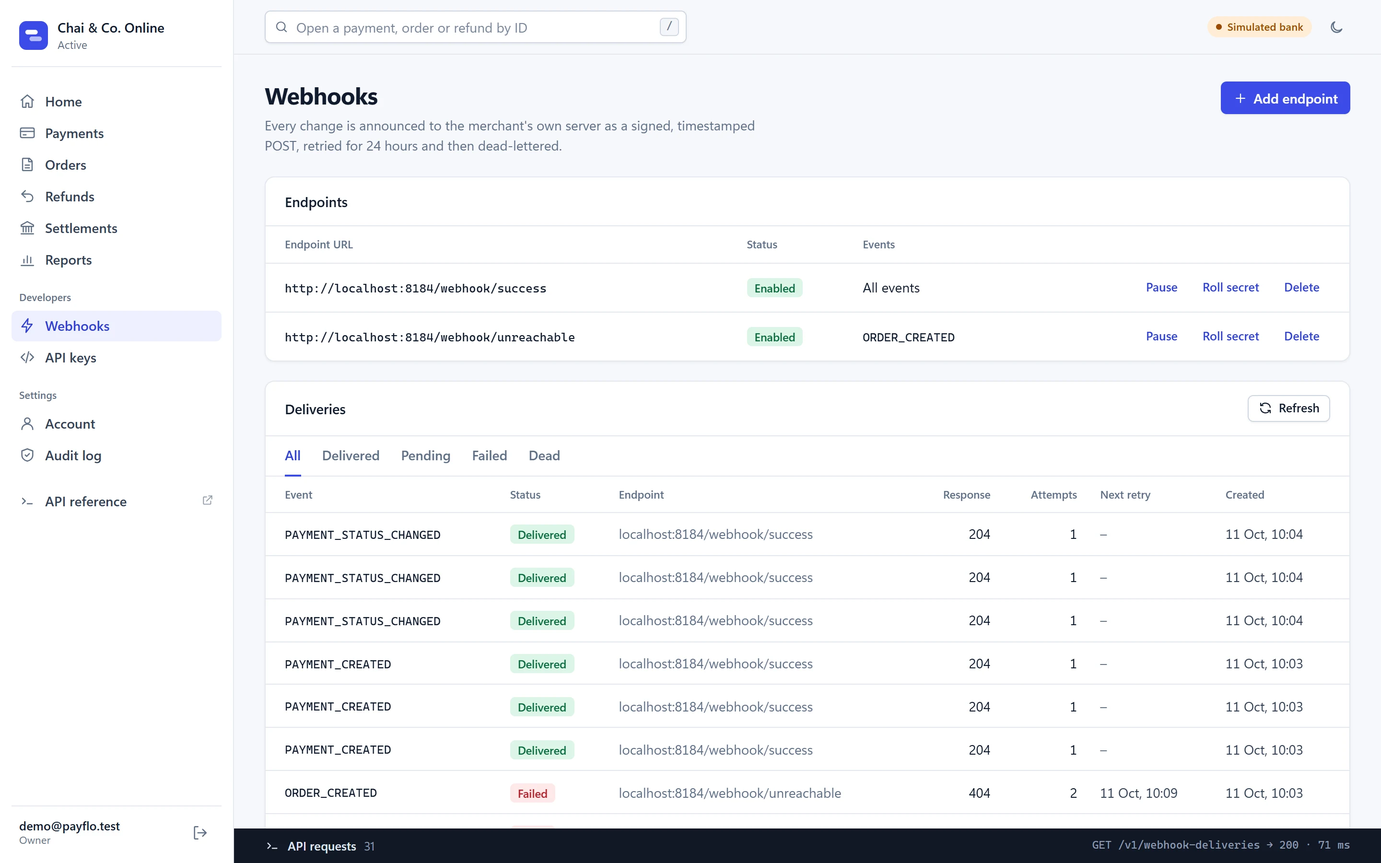
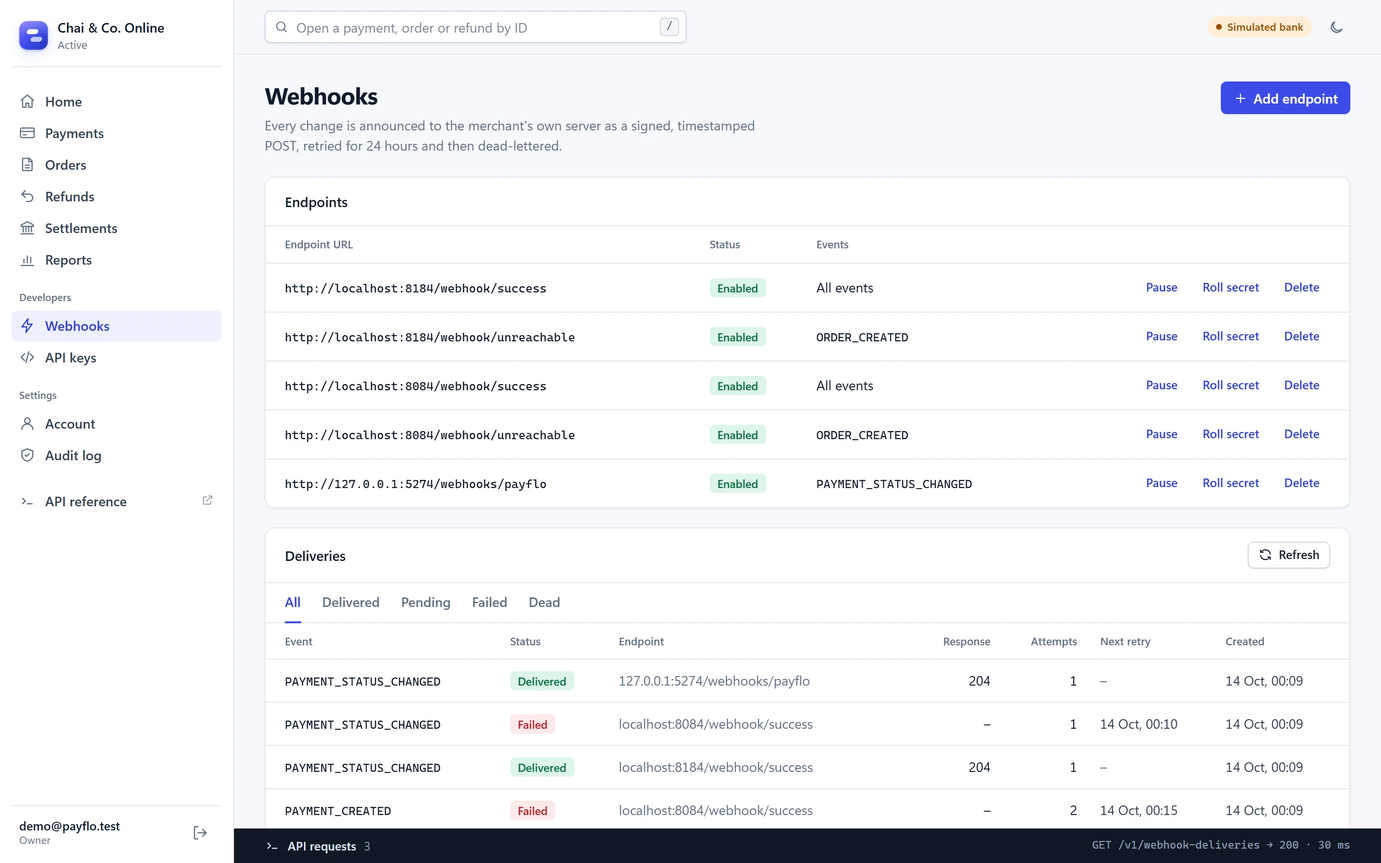
docs: document the shop and how to pay in it, with fresh screenshots of the dashboard and the shop

diff --git a/docs/local-development/demo-and-dashboard.md b/docs/local-development/demo-and-dashboard.md
@@ -1,6 +1,6 @@
-# The Demo and the Dashboard
+# The Demo, the Dashboard and the Shop
 
-The quickest way to see PayFlo working: one command starts everything and fills it with a merchant's day, and a small web dashboard shows the result. Both are for showing and exploring the system; neither is part of it.
+The quickest way to see PayFlo working: one command starts everything and fills it with a merchant's day, a web dashboard shows the result, and a sample shop lets you pay as a customer and watch the payment arrive. All three are for showing and exploring the system; none is part of it.
 
 ## One command
 
@@ -17,16 +17,17 @@ It needs Python 3.10+ and nothing else (standard library only). Every step is sk
 3. Starts discovery, config, the four business services and the gateway, in that order, waiting for each. Their logs go to `demo/logs/`.
 4. Starts the dashboard on <http://localhost:5173>.
 5. Seeds the demo merchant, through the gateway, the way a merchant's own code would.
+6. Starts the demo merchant's shop on <http://localhost:5174>.
 
-When it finishes it prints the dashboard's address, the demo merchant's login and where the API key is.
+When it finishes it prints the dashboard's and the shop's addresses, the demo merchant's login and where the API key is.
 
 | Command | Does |
 |---|---|
-| `python demo/demo.py` | Start what isn't running, seed, serve the dashboard |
+| `python demo/demo.py` | Start what isn't running, seed, serve the dashboard and the shop |
 | `python demo/demo.py seed` | Add another batch of orders and payments to the running stack |
 | `python demo/demo.py status` | What is up |
-| `python demo/demo.py stop` | Stop the services and the dashboard **this script started** (the containers are left running) |
-| `python demo/demo.py --no-seed` | Start everything, create no data |
+| `python demo/demo.py stop` | Stop the services, the dashboard and the shop **this script started** (the containers are left running) |
+| `python demo/demo.py --no-seed` | Start everything, create no data (the shop starts only if an earlier seed left the API key) |
 | `python demo/demo.py --build` | Rebuild the jars first |
 | `python demo/demo.py --port-offset 100` | Move every port by 100, for a machine where the usual ones are taken |
 
@@ -37,6 +38,7 @@ When it finishes it prints the dashboard's address, the demo merchant's login an
 | Signup, profile, payout account, KYC | A merchant going from `PENDING_KYC` to `ACTIVE` |
 | An API key | Saved in `demo/.run/api-key.json` (gitignored), since the secret is shown only once |
 | Two webhook endpoints | One that works (operations-service's test receiver) and one that fails, so retries and `FAILED` deliveries are visible |
+| The shop's webhook endpoint | `PAYMENT_STATUS_CHANGED` to the shop's server, with the signing secret saved in `demo/.run/storefront.json` (gitignored) for it to check deliveries against |
 | A `TEAM` user | A read-only login |
 | Payments by UPI, card, net banking and wallet | The simulated bank authorizing and capturing within seconds, and declining some on its own |
 | `fail@okaxis`, a declined card then UPI on the same order | The [test values](../api/mock-acquirer.md), and two attempts on one order |
@@ -54,7 +56,7 @@ The outcome of an ordinary payment is the simulated bank's to decide (it decline
 The script refuses to start a service on a port another program holds, and says which. It does not take "something answered on 8761" as proof that PayFlo's discovery-service is running: any Eureka answers there, and registering with another project's registry would quietly break both. Either stop the other program or move PayFlo:
 
 ```bash
-python demo/demo.py --port-offset 100     # gateway :8180, services :8181-8184, discovery :8861, config :8988, dashboard :5273
+python demo/demo.py --port-offset 100     # gateway :8180, services :8181-8184, discovery :8861, config :8988, dashboard :5273, shop :5274
 ```
 
 The offset is remembered (in `demo/.run/settings.json`), so `seed`, `status` and `stop` find the same stack; `--port-offset 0` goes back. The services find discovery and config on their moved ports through `EUREKA_URL` and `CONFIG_SERVER_URL`.
@@ -92,12 +94,14 @@ The frame is exactly the height of the window and never scrolls: the sidebar and
 
 Log in as the demo merchant, as its `TEAM` user to see a read-only login refused by the gateway (`403 ROLE_FORBIDDEN`), or create a new account from the login page.
 
+**Home, Payments and Orders are live.** Each asks the API again every few seconds while it is on screen (marked **Live** beside its Refresh button), and a row that is new, or whose status has changed, is tinted for a moment. Nothing is pushed: it is the same `GET` a refresh makes, so the gateway needed no change. These repeats are left out of the API requests bar, which would otherwise show nothing else.
+
 ### How it is put together
 
 | File | Holds |
 |---|---|
 | `site/app.css` | Every style. Colours are tokens (`--brand`, `--text`, `--good-bg`, ...), defined once for light and again under `[data-theme="dark"]`; a component never names a colour itself |
-| `site/js/ui.js` | The shared pieces: tables and paged lists, badges, forms, dialogs and drawers, toasts, the trend chart |
+| `site/js/ui.js` | The shared pieces: tables and paged lists (and their live reload), badges, forms, dialogs and drawers, toasts, the trend chart |
 | `site/js/icons.js` | The icons and the logo, as inline SVG |
 | `site/js/api.js` | The only code that calls the backend: sessions, token refresh, the request log |
 | `site/js/app.js` | Login, the shell (sidebar, top bar, routing), the API requests bar |
@@ -114,6 +118,69 @@ A browser may only call the origin a page came from, so `serve.py` answers the p
 - It listens on `127.0.0.1` only, like every other PayFlo process, and forwards a fixed list of headers (`Authorization`, `Content-Type`, `Accept`, `X-Idempotency-Key`, `X-Admin-Key`). Identity headers are not in the list, and the gateway drops them anyway.
 - It never forwards `/internal/**`, stores nothing, and logs one line per API call: the method, path and status, never a header or a body.
 - The page keeps the session (the JWT and refresh token, or the admin key) in `sessionStorage`, so closing the tab ends it. The only thing it remembers longer is the theme (light by default, dark from the button in the top bar), in `localStorage`. Its own `Content-Security-Policy` allows scripts and styles from itself only.
+
+## The shop
+
+`microservices/storefront/` is the other side of PayFlo: a merchant's website, where a customer pays. It is the demo merchant's tea shop, "Chai & Co.", and it integrates the way a real merchant does: its own server holds the API key and calls PayFlo, and its checkout embeds PayFlo's payment form. `demo.py` starts it on <http://localhost:5174> (5274 with `--port-offset 100`) once the seed has created the merchant's API key. To run it on its own against a gateway that is already up:
+
+```bash
+python storefront/serve.py                      # http://localhost:5174 -> the gateway on :8080
+python storefront/serve.py --port 5274 --gateway http://localhost:8180
+```
+
+![The shop's checkout: delivery details and PayFlo's payment form with card, UPI, net banking and wallet tabs](../assets/screenshots/shop-checkout.webp)
+
+### Paying in the shop
+
+1. **Pick something.** Open the shop, add a product to the cart (or open it for its details first) and press **Checkout**. Orders under ₹499 pay ₹49 shipping, and the cart shows how far an order is from free shipping.
+2. **Give the delivery details.** Any email, a 10-digit mobile number starting with 6 to 9, an address, a state and a 6-digit PIN code. The shop's server checks them before a payment can start.
+3. **Pay.** Choose a method in the payment form and enter a value from the table below; a card takes any future expiry and any three-digit CVC. While the bank answers, the form shows the wait in place of its fields.
+4. **Watch it arrive.** The confirmation page opens with the order number and a tracker, and **Payment confirmed** ticks a moment later, when PayFlo's signed webhook reaches the shop's server. With the dashboard's Payments page open beside the shop, the payment appears there on its own and moves from authorizing to captured.
+
+| Method | Enter | What happens |
+|---|---|---|
+| Card | `4111 1111 1111 1111` | Approved and captured within a few seconds |
+| Card | `4000 0000 0000 0002` | Declined: the checkout says so, and the same order can be paid again |
+| Card | `4000 0000 0000 0069` | Declined as an expired card |
+| Card | `4000 0000 0000 0341` | Approved, but the bank refuses the first capture; the shop's server captures it again and the order goes through |
+| UPI | `buyer@okaxis`, or any other `name@bank` | Approved after the "approve in your UPI app" wait |
+| UPI | `fail@okaxis` | Rejected |
+| UPI | `capturefail@okaxis` | Like the card above: the first capture refused, the retry captured |
+| Net banking, wallet | Any bank or wallet in the list | Approved after a few seconds |
+
+Like a real bank, the [simulated one](../api/mock-acquirer.md#2-the-bank-callback--the-asynchronous-answer) also declines a share of ordinary payments at random: about 1 card payment in 10, 1 UPI or wallet payment in 20 and 1 net-banking payment in 5. Such a decline reads "Your bank declined the payment", and paying again works.
+
+| | |
+|---|---|
+| <img src="../assets/screenshots/shop.webp" alt="The shop's home page: a hero, the shop's promises and its products" /> | <img src="../assets/screenshots/shop-cart.webp" alt="The cart drawer with two products and free shipping unlocked" /> |
+| The shop | The cart |
+| <img src="../assets/screenshots/shop-checkout.webp" alt="The checkout with PayFlo's payment form" /> | <img src="../assets/screenshots/shop-confirmation.webp" alt="The order confirmation with Payment confirmed ticked" /> |
+| The checkout and PayFlo's payment form | The confirmation, after the signed webhook |
+
+| Page | What it is |
+|---|---|
+| `/` | The shop: eight teas and teaware with category filters, search, a product view and a cart drawer |
+| `/checkout.html` | The shop's checkout: contact (email, mobile), delivery address, the order summary, and PayFlo's payment form (`js/payflo.js`), embedded the way a payment SDK's element is: tabs for card, UPI, net banking and wallet, card-brand detection, errors beside the field they are about, and the wait for the bank. Coming back to the page while the bank is still answering shows that wait again |
+| `/success.html` | The order confirmation: the order number, a tracker whose **Payment confirmed** step ticks when PayFlo's signed webhook reaches the shop's server, the contact, address and payment method, and the order summary |
+
+### How it is put together
+
+`serve.py` is the merchant's backend, and the only thing that talks to PayFlo. The pages talk to `serve.py`.
+
+| Step | Call to the gateway, with the API key |
+|---|---|
+| The customer gives their details | Nothing yet: `serve.py` checks the email, mobile number, address and PIN code itself and keeps them with the checkout |
+| The customer pays | `POST /v1/orders`, for an amount the server works out from its own price list and shipping rule; the browser sends product ids and quantities, never an amount. The customer's name, email and phone go with it. The checkout's id is the `X-Idempotency-Key`, so pressing Pay twice makes one order |
+| A card | `POST /v1/vault/tokenize`, then the payment carries only the token. The number passes through `serve.py` on its way to the vault and is neither kept nor logged |
+| The payment | `POST /v1/payments`, with a new idempotency key for each attempt; a declined attempt can be followed by another on the same order |
+| Waiting for the bank | `GET /v1/payments/{id}` about once a second, while the page shows the bank's progress |
+| A capture the bank refused | `POST /v1/payments/{id}/capture`, once, before the customer is told anything |
+| Afterwards | PayFlo `POST`s `PAYMENT_STATUS_CHANGED` to the shop's `/webhooks/payflo`. The server checks the timestamp and the HMAC signature against its secret, drops an event id it has already seen, and only then marks the order confirmed (see [webhook configs](../api/webhook-configs.md#what-a-delivery-looks-like)) |
+
+- The API key stays on the server (`demo/.run/api-key.json`, or `PAYFLO_KEY_ID` and `PAYFLO_KEY_SECRET`). The browser holds only its checkout's id, a random token that opens that one checkout.
+- A decline is shown the way a checkout would say it ("Your card was declined") rather than as the API's `errorCode`, and the same order can be paid again by another method.
+- Like the dashboard it listens on `127.0.0.1` only, needs no change to the gateway, and is plain HTML, CSS and JavaScript modules with no build step and no dependencies; its `Content-Security-Policy` allows scripts and styles from itself only, so the product pictures are drawn as inline SVG.
+- Checkouts are kept in memory: restarting `serve.py` forgets the open ones, and the orders and payments stay in PayFlo.
 
 ## API reference in the browser
 

diff --git a/CLAUDE.md b/CLAUDE.md
@@ -55,9 +55,11 @@ microservices/
   k8s-scaled/           overlay on k8s/: 3 replicas of the gateway and payment-service, and more room for PostgreSQL/Redis/Kafka (a sibling, not inside k8s/: Kustomize forbids it)
   observability/        Zipkin/Prometheus/Grafana: docker-compose.yaml locally, kustomization.yaml (included by k8s/)
   load-test/            JMeter plan + provision_keys.py + run_load_test.py (also reports capture and webhook-SLA from Prometheus) + idempotency_replay_test.py; keys*.csv and results/ are gitignored
-  demo/                 demo.py: starts infrastructure and the seven services, seeds a demo merchant, serves the dashboard (logs/, .run/ gitignored)
+  demo/                 demo.py: starts infrastructure and the seven services, seeds a demo merchant, serves the dashboard and the shop (logs/, .run/ gitignored)
   dashboard/            a web dashboard over the PUBLIC API only: site/ (static HTML/CSS/JS modules, no build, no dependencies) and serve.py,
                         a loopback server that forwards /v1/** to the gateway. A client, not part of the system: never give it a path around the gateway
+  storefront/           a sample merchant's shop, also over the PUBLIC API only: site/ (shop, checkout with js/payflo.js, PayFlo's embedded payment form, and confirmation pages; no build) and serve.py,
+                        the merchant's backend: it holds the API key, creates the order and the payment, and verifies PayFlo's signed webhook
   inside each service (com.project.payflo.<module>): entity/ repository/ mapper/ service/ service/impl/
   controller/ dto/ client/ config/   and src/main/resources/db/migration/ (Flyway: V1__baseline.sql, V2__…)
 .github/                CI (build, every test, dependency scan)
@@ -72,7 +74,7 @@ docker compose -f services.docker-compose.yaml up -d            # infrastructure
 cd microservices && ./mvnw clean install -DskipTests            # build every module, install common-lib
 cd microservices && ./mvnw verify                               # EVERY test, as CI runs it: unit + integration on real PostgreSQL/Redis/Kafka
                                                                 # in containers (needs Docker; nothing else running — no config server, no Eureka)
-cd microservices && python demo/demo.py                         # ONE COMMAND: infrastructure, build if needed, 7 services, seed, dashboard on :5173
+cd microservices && python demo/demo.py                         # ONE COMMAND: infrastructure, build if needed, 7 services, seed, dashboard on :5173, shop on :5174
                                                                 # (seed | status | stop | --build | --port-offset 100 when ports are taken)
 python docs/api/check_openapi.py                                # the OpenAPI spec must match the controllers (CI runs it)
 cd microservices && python chaos/crash_and_outage_test.py       # kill/outage tests against the running stack
@@ -96,7 +98,7 @@ On Windows, use `mvnw.cmd`. Start order: discovery → config → the four busin
 - **Nothing is published beyond loopback**: services and infrastructure bind `127.0.0.1` locally (a service trusts `X-Merchant-Id`, so only the gateway may reach it). CI fails on a fixable HIGH/CRITICAL dependency vulnerability: upgrade or pin, don't silence it.
 - **New settings go in `config-repo`**, with a `-k8s.yaml` override and a ConfigMap / `secrets.env.example` entry when they differ in-cluster. A new Feign client needs a `url = "${<X>_SERVICE_URI:}"` override for Kubernetes.
 - **A new, removed or moved endpoint changes `docs/api/openapi.yaml` in the same change** (hand-written; `check_openapi.py` fails CI otherwise), and its page in `docs/api/`. The dashboard and the Postman collection call the same endpoints: update them when a shape they use changes.
-- **The dashboard stays a client of the gateway.** It needs no gateway change: no CORS, no static files on the gateway, no addition to `public-routes`, no loosening of the gateway's CSP. `serve.py` binds loopback only and never forwards `/internal/**`.
+- **The dashboard and the shop stay clients of the gateway.** They need no gateway change: no CORS, no static files on the gateway, no addition to `public-routes`, no loosening of the gateway's CSP. Each `serve.py` binds loopback only; the dashboard's never forwards `/internal/**`, and the shop's keeps the API key on the server, never logs a request body (it can hold a card number) and takes amounts only from its own price list.
 - **On Windows, connect to `127.0.0.1`, not `localhost`, from scripts**: the services listen on IPv4 only and each `localhost` call first waits about two seconds on `::1`.
 - **A sealed type crossing Feign needs `@JsonTypeInfo`.**
 - **Check performance-sensitive changes with the load test**, not just a single request: every bottleneck it has found (gateway proxy pool, Open-Session-In-View, pool sizing, the outbox poller, breaker scope) was invisible one request at a time.

diff --git a/docs/features.md b/docs/features.md
@@ -128,8 +128,9 @@ See [audit log](api/audit-log.md) and [admin API](api/admin.md).
 
 ## Operating it
 
-- **One-command demo.** `python demo/demo.py` starts the infrastructure and the seven services, seeds a merchant through the public API (KYC, an API key, webhooks, payments by every method, the failure cases, a refund, a settlement) and serves the dashboard.
-- **Dashboard.** A web client over the public API: overview and reports, orders with a checkout, payments, refunds, settlements, webhook endpoints and deliveries, API keys, team, the audit log and the operator's console, with a bar listing every API request the page makes.
+- **One-command demo.** `python demo/demo.py` starts the infrastructure and the seven services, seeds a merchant through the public API (KYC, an API key, webhooks, payments by every method, the failure cases, a refund, a settlement) and serves the dashboard and the shop.
+- **Dashboard.** A web client over the public API: overview and reports, orders with a checkout, payments, refunds, settlements, webhook endpoints and deliveries, API keys, team, the audit log and the operator's console, with a bar listing every API request the page makes. Home, Payments and Orders reload themselves every few seconds and tint what is new.
+- **Sample shop.** A merchant's website over the same public API: a tea shop with a cart, a checkout for contact and delivery details with PayFlo's embedded Payment Element (card, UPI, net banking and wallet), and an order confirmation with a tracker. Its server holds the API key, creates the order and the payment with idempotency keys, tokenizes the card, retries a refused capture and verifies the signed webhook before confirming the order.
 - **API reference.** A hand-written OpenAPI 3.0 spec, checked against the controllers in CI, rendered by Swagger UI; and a Postman collection that walks the same API.
 - **Observability.** One trace per request across every service in Zipkin, Prometheus metrics with latency histograms, and a Grafana dashboard for throughput, p99, availability, the outbox, payments and the webhook SLA.
 - **Kubernetes.** Kustomize manifests for a local kind cluster, and an overlay with three replicas of the gateway and payment-service, rolling updates and disruption budgets.

diff --git a/docs/practices/testing.md b/docs/practices/testing.md
@@ -70,6 +70,7 @@ Every change to a flow is verified end to end through the gateway, against the r
 | Area | How to verify |
 |---|---|
 | The whole flow at once | `python demo/demo.py` from `microservices/` ([the demo](../local-development/demo-and-dashboard.md)): on a fresh database it must end with every seeded payment in its expected state, one order for the repeated idempotency key, a `PROCESSED` refund and a settlement whose net is gross − refunds − fee − GST. Then click through the dashboard it prints |
+| The shop | Open the [shop](../local-development/demo-and-dashboard.md#the-shop) and the dashboard's Payments page side by side. Fill in the checkout's details and pay by card `4111 1111 1111 1111` in the payment form: the payment appears in the dashboard on its own and reaches `CAPTURED`, and the confirmation page's tracker ticks "Payment confirmed" when the signed webhook arrives. Pay with the declined card `4000 0000 0000 0002`: the checkout says so and the same order can be paid again. A `POST` to `/webhooks/payflo` with a wrong signature is `401` |
 | Authentication | Signup → login → create an API key → call an API-key endpoint; a wrong secret is `401`; 201 requests in a minute on one key is a `429` |
 | The payment path | Create an order with a `customer`, tokenize a card, pay by card and by UPI; each reaches `CAPTURED` within seconds and the order `PAID`. A [test failure value](../api/mock-acquirer.md) comes back `FAILED` |
 | Idempotency | `python idempotency_replay_test.py` in `microservices/load-test/` — every key must resolve to one order or payment ([replay test](../load-testing/running.md#6-replay-test-for-idempotency)) |

diff --git a/docs/local-development/README.md b/docs/local-development/README.md
@@ -4,7 +4,7 @@ Everything needed to run PayFlo on your own machine.
 
 Local development runs **seven processes** — discovery, config, the four business services and the gateway — from the `microservices/` build. PostgreSQL, Redis and Kafka run in Docker.
 
-**In a hurry?** `python demo/demo.py` from `microservices/` does all of the steps below, seeds a demo merchant and opens a dashboard: see [the demo and the dashboard](demo-and-dashboard.md).
+**In a hurry?** `python demo/demo.py` from `microservices/` does all of the steps below, seeds a demo merchant and opens a dashboard and a sample shop: see [the demo, the dashboard and the shop](demo-and-dashboard.md).
 
 | Step | Page |
 |---|---|
@@ -16,7 +16,7 @@ Local development runs **seven processes** — discovery, config, the four busin
 
 | Page | Covers |
 |---|---|
-| [The demo and the dashboard](demo-and-dashboard.md) | One command to start and seed everything, the web dashboard, Swagger UI |
+| [The demo, the dashboard and the shop](demo-and-dashboard.md) | One command to start and seed everything, the web dashboard, the sample shop, Swagger UI |
 | [Troubleshooting](troubleshooting.md) | Symptoms you're likely to hit, and their fixes |
 | [Useful commands](commands.md) | Build, run, test and infrastructure commands in one place |
 | [Resetting local data](resetting-data.md) | Starting over from empty databases, cache and topics |

diff --git a/docs/architecture/module-map.md b/docs/architecture/module-map.md
@@ -24,7 +24,10 @@ microservices/
   chaos/                  the crash and outage tests
   dashboard/              a web dashboard over the public API: a static page and a loopback server that
                           forwards its /v1/** calls to the gateway. A client of the system, not part of it
-  demo/                   demo.py: start everything, seed a demo merchant, serve the dashboard
+  storefront/             a sample merchant's shop: shop, checkout and confirmation pages, and serve.py, the
+                          merchant's backend, which calls the gateway with the API key and verifies the signed
+                          webhook. A client of the system, not part of it
+  demo/                   demo.py: start everything, seed a demo merchant, serve the dashboard and the shop
 services.docker-compose.yaml   local PostgreSQL, Redis, Kafka, Control Center
 docs/                     this documentation
 ```

diff --git a/docs/local-development/commands.md b/docs/local-development/commands.md
@@ -8,6 +8,7 @@ On Windows, use `mvnw.cmd` in place of `./mvnw`.
 |---|---|
 | `python demo/demo.py` | Start everything, seed a demo merchant and serve the dashboard; `seed`, `status`, `stop`, `--build`, `--port-offset N` ([the demo](demo-and-dashboard.md)) |
 | `python dashboard/serve.py` | Only the dashboard and Swagger UI, on <http://localhost:5173>, against a gateway that is already running |
+| `python storefront/serve.py` | Only the sample shop, on <http://localhost:5174>, against a gateway that is already running (it needs the API key an earlier `demo.py` saved) |
 | `./mvnw clean install -DskipTests` | Build every module and install `common-lib` locally |
 | `../mvnw spring-boot:run` (from a module directory) | Run one service — see the [start order](setup.md#4-start-the-services-in-order) |
 | `./mvnw -pl common-lib,<module> compile` | Compile one service against `common-lib` from source |

diff --git a/docs/README.md b/docs/README.md
@@ -5,7 +5,7 @@ Everything about what PayFlo does, how it is built, and how to run and change it
 ## Getting started
 
 - [Features](features.md) — everything the system does, by area, with its rules and limits.
-- [The demo and the dashboard](local-development/demo-and-dashboard.md) — one command that starts everything and seeds a merchant, and a web dashboard over the API.
+- [The demo, the dashboard and the shop](local-development/demo-and-dashboard.md) — one command that starts everything and seeds a merchant, a web dashboard over the API, and a sample shop to pay in.
 - [Local development](local-development/README.md) — prerequisites, setup, configuration, commands, troubleshooting.
 - [Tech stack](tech-stack.md) — the languages, frameworks and services in use.
 

diff --git a/docs/metrics.md b/docs/metrics.md
@@ -135,7 +135,8 @@ See the [crash and outage tests](reliability/crash-and-outage-tests.md).
 | Scheduled jobs, each under a distributed lock | 11 |
 | Payment statuses / state-machine events | 11 / 12 ([enums](schema/enums.md)) |
 | Architecture decision records | 8 |
-| Dashboard | about 2,700 lines of HTML, CSS and JavaScript, no build step and no dependencies |
+| Dashboard | about 2,800 lines of HTML, CSS and JavaScript, no build step and no dependencies |
+| Sample shop | about 1,600 lines of HTML, CSS and JavaScript and a 530-line Python server (standard library only), no build step and no dependencies |
 | Tooling scripts (Python, standard library only) | about 2,000 lines: the demo, the load-test runner, the crash tests, the OpenAPI check |
 
 ## Re-measuring
